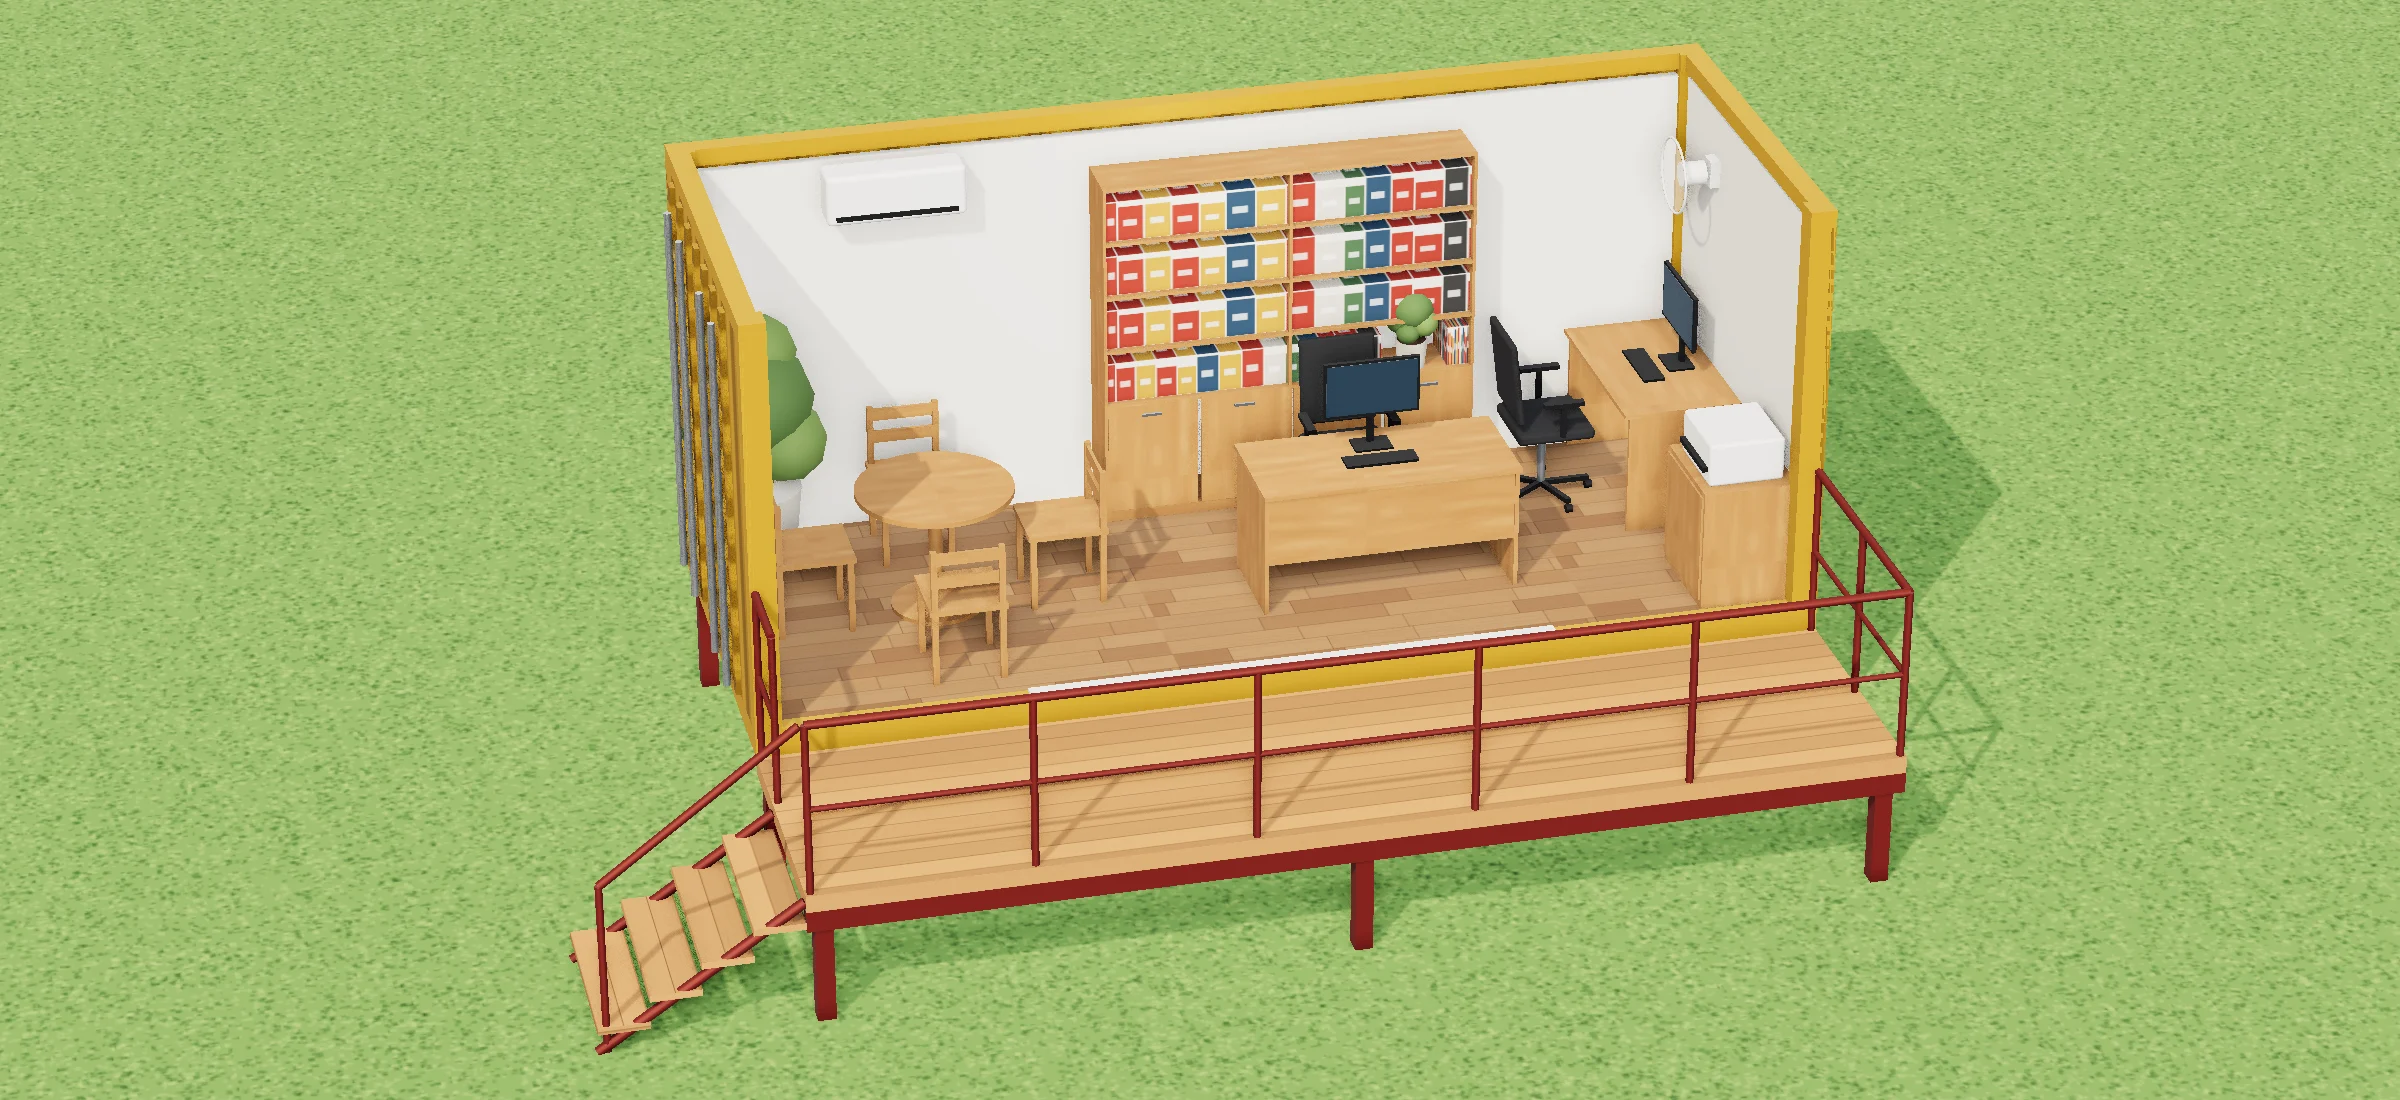
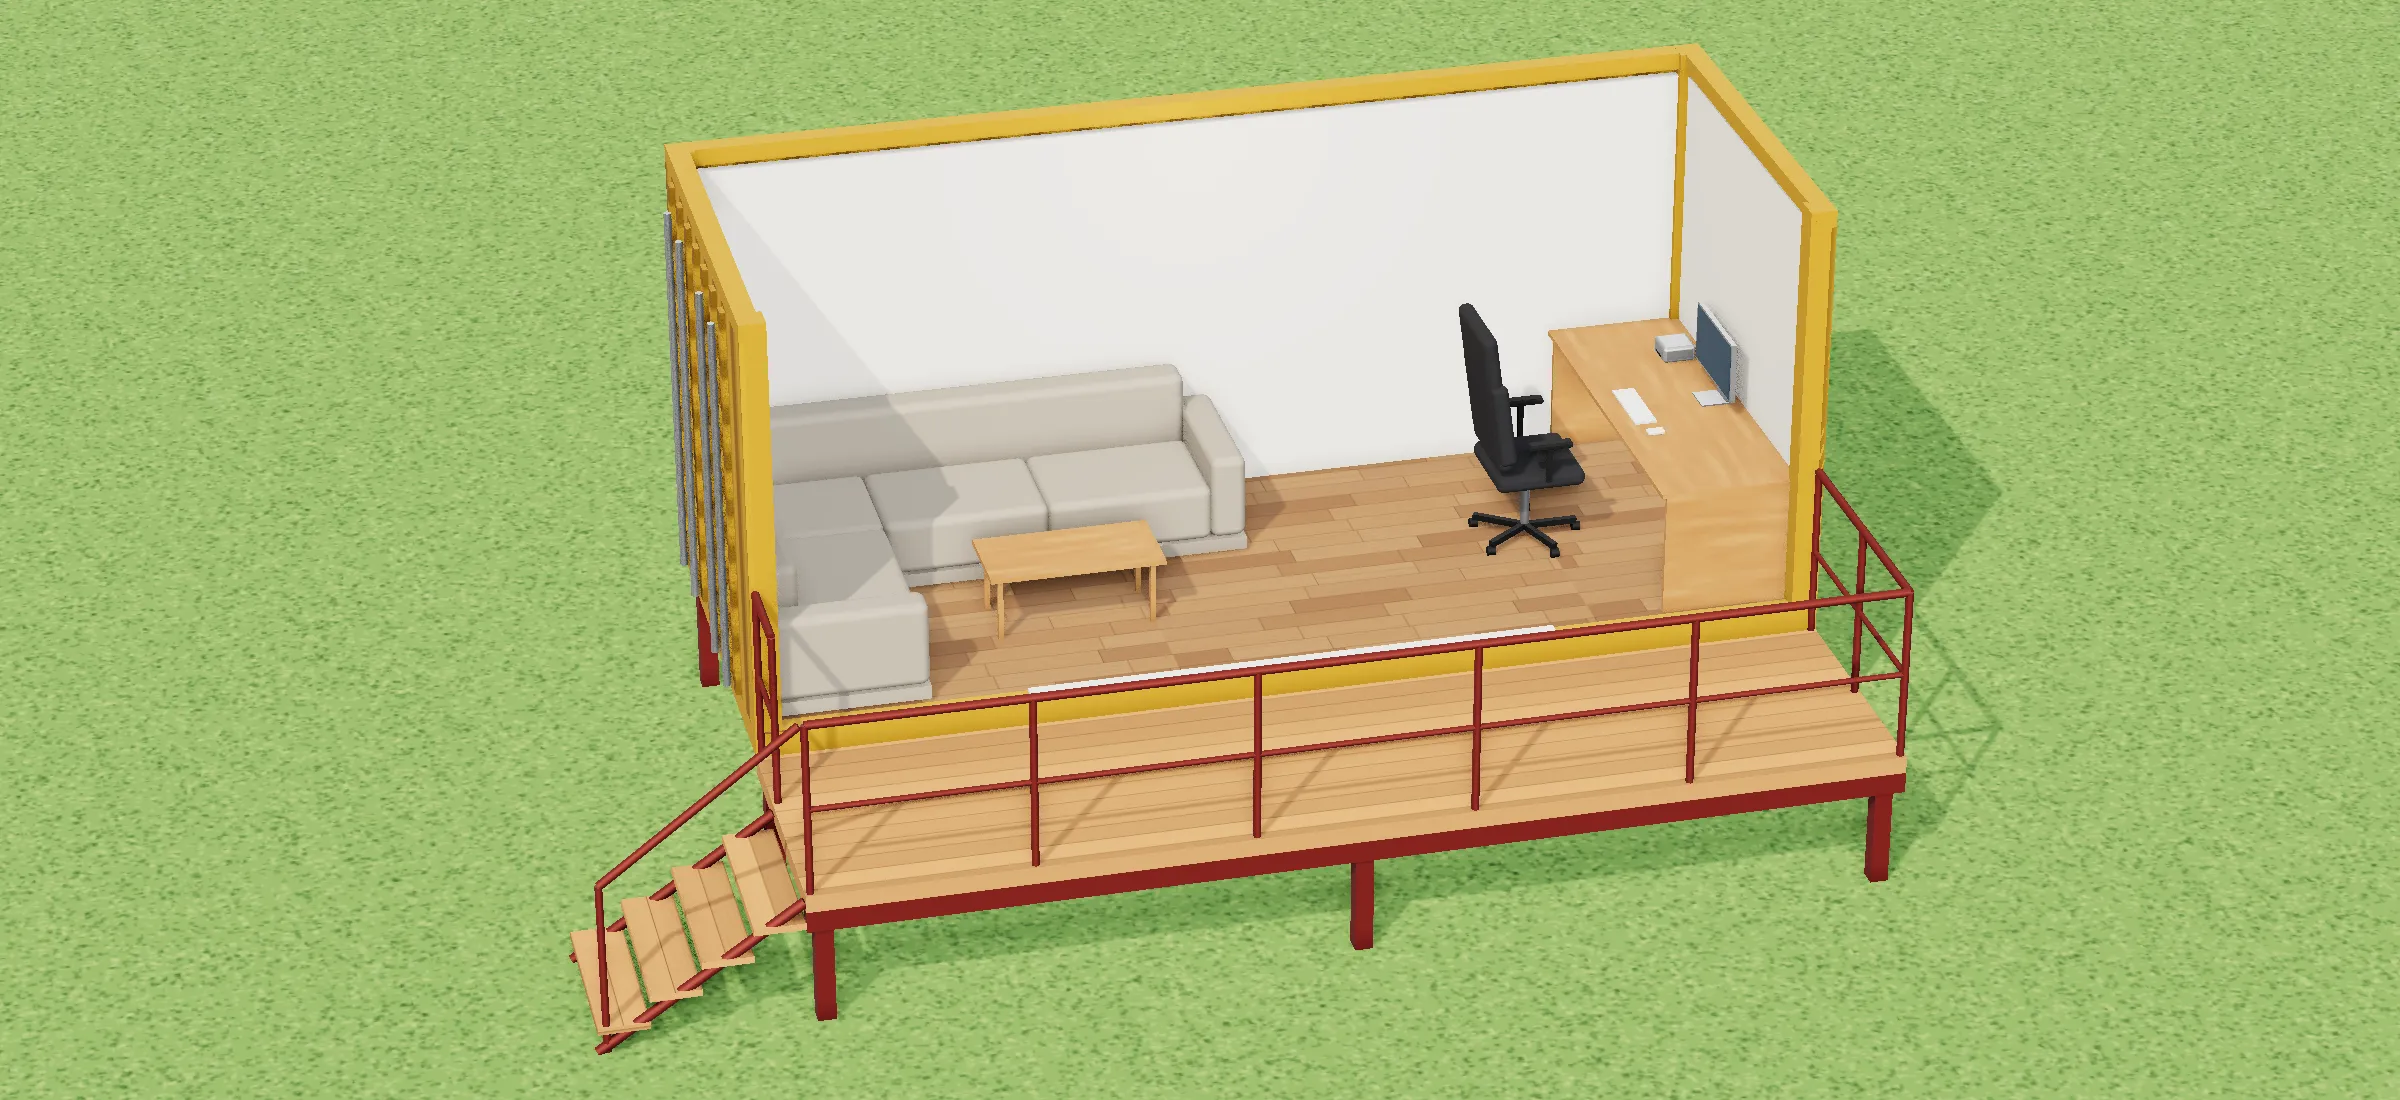
feat(office): 3D rebuilt with the L sofa and the Mac desk
The 3D now draws what the 2D draws: one L sofa across the cargo-door end and
along the back wall with a low table, and the big desk across the far end
wall with a Studio Display, a Mac Studio and a gaming chair. The meeting
table, reception, filing wall, printer, screen, AC, fan and plants are gone
from the scene; the line and real views are re-rendered.

Changed region(s): [[0.3125, 0.1236, 0.75, 0.6491], [0.6875, 0.1236, 0.7188, 0.1855], [0.3438, 0.1855, 0.4062, 0.2164]]

diff --git a/scripts/site/render/office.html b/scripts/site/render/office.html
@@ -16,7 +16,7 @@
     &view=network   the same for the network (office.json `network`): the cabinet, its router, switch, gateway and
                 UPS, the access point and the data outlets -> render/network-line.png + network-tags.json
     &item=<id>  one piece on its own, real mode, 1200 x 900 on a transparent ground: the furniture and equipment
-                (table, woodchair, reception, officechair, monitor, desk, shelves, printer, screen, ac)
+                (sofa, sofatable, bigdesk, display, macstudio, keyboard, gamingchair)
                 -> render/furniture/<id>.webp; a device by its model -> render/electric/<id>.webp or render/network/<id>.webp
 
   Serve the repo root on a spare port, open this page at 2400 x 1100, and once body[data-ready] is set
@@ -221,6 +221,8 @@ function mat(name) {
       leg: () => std({ color: "#9c9fa3", roughness: 0.35, metalness: 0.8 }),
       screen: () => std({ map: T.map, roughness: 0.3, emissive: "#ffffff", emissiveMap: T.map, emissiveIntensity: 0.25 }),
       monitor: () => std({ color: "#1d2a35", roughness: 0.2, emissive: "#4d6a80", emissiveIntensity: 0.25 }),
+      alu: () => std({ color: "#c7c9cc", roughness: 0.32, metalness: 0.75 }), // the Studio Display and the Mac Studio
+      fabric: () => std({ color: "#a59d90", roughness: 0.95 }), // the sofa, a warm stone weave
       files: () => std({ map: T.files, roughness: 0.8 }),
       pot: () => std({ color: "#d9d4c8", roughness: 0.8 }),
       soil: () => std({ color: "#4a3626", roughness: 1 }),
@@ -289,7 +291,7 @@ function pipe(a, b, r, name) {
 }
 
 // ------------------------------------------------------------ the box on its frame, the deck, the stair
-const { container: K, glazing, deck, meeting, reception, desk, shelves, printer, screen, ac, fan, plants } = C
+const { container: K, glazing, deck, workstation: ws, sofa } = C
 const L = K.l, H = K.w / 2, Y0 = K.raised, HC = K.h
 const FL = Y0 + K.floor, CE = Y0 + K.ceiling // inside: the finished floor, the ceiling
 const { x0: ix0, x1: ix1, y0: iz0, y1: iz1 } = K.inner
@@ -348,144 +350,80 @@ if (!LINE && !ITEM) {
 }
 
 // ------------------------------------------------------------ furniture
-// an office chair: five-star base on castors, gas column, black seat and a mesh back; faces +z (rot turns it)
-function officeChair(x, z, rot) {
+// a gaming chair: five-star base on castors, gas column, a deep seat and a tall winged back with a headrest;
+// faces +z (rot turns it)
+function gamingChair(x, z, rot) {
   const g = new THREE.Group(); g.position.set(x, FL, z); g.rotation.y = rot
-  const parts = []
-  const put = (geo, name, pos, r) => { const m = add(geo, name, { pos }); if (r) m.rotation.set(...r); scene.remove(m); g.add(m); parts.push(m) }
+  const put = (geo, name, pos, r) => { const m = add(geo, name, { pos }); if (r) m.rotation.set(...r); scene.remove(m); g.add(m) }
   for (let k = 0; k < 5; k++) {
     const a = (k * 2 * Math.PI) / 5
-    put(new THREE.BoxGeometry(0.03, 0.03, 0.3), "black", [Math.sin(a) * 0.14, 0.07, Math.cos(a) * 0.14], [0, a, 0])
-    put(new THREE.CylinderGeometry(0.025, 0.025, 0.04, 8), "black", [Math.sin(a) * 0.29, 0.025, Math.cos(a) * 0.29], [Math.PI / 2, a, 0])
+    put(new THREE.BoxGeometry(0.035, 0.035, 0.32), "black", [Math.sin(a) * 0.15, 0.07, Math.cos(a) * 0.15], [0, a, 0])
+    put(new THREE.CylinderGeometry(0.028, 0.028, 0.045, 8), "black", [Math.sin(a) * 0.31, 0.028, Math.cos(a) * 0.31], [Math.PI / 2, a, 0])
   }
-  put(new THREE.CylinderGeometry(0.025, 0.025, 0.36, 8), "leg", [0, 0.26, 0])
-  put(new RoundedBoxGeometry(0.48, 0.07, 0.46, 3, 0.025), "mesh", [0, 0.47, 0.02])
-  put(new RoundedBoxGeometry(0.45, 0.52, 0.04, 3, 0.018), "mesh", [0, 0.82, -0.22], [-0.12, 0, 0])
+  put(new THREE.CylinderGeometry(0.028, 0.028, 0.34, 8), "leg", [0, 0.25, 0])
+  put(new RoundedBoxGeometry(0.54, 0.1, 0.52, 3, 0.04), "mesh", [0, 0.47, 0.02])
+  put(new RoundedBoxGeometry(0.54, 0.86, 0.09, 3, 0.04), "mesh", [0, 0.98, -0.25], [-0.14, 0, 0])
+  put(new RoundedBoxGeometry(0.3, 0.12, 0.06, 3, 0.025), "black", [0, 1.28, -0.27], [-0.14, 0, 0]) // the headrest pad
   for (const s of [-1, 1]) {
-    put(new THREE.BoxGeometry(0.03, 0.2, 0.03), "black", [s * 0.25, 0.58, 0.05])
-    put(new THREE.BoxGeometry(0.05, 0.025, 0.24), "black", [s * 0.25, 0.69, 0.05])
+    put(new RoundedBoxGeometry(0.07, 0.5, 0.1, 3, 0.03), "mesh", [s * 0.27, 0.86, -0.22], [-0.14, 0, 0]) // the wings
+    put(new THREE.BoxGeometry(0.03, 0.22, 0.03), "black", [s * 0.29, 0.6, 0.05])
+    put(new RoundedBoxGeometry(0.07, 0.035, 0.26, 3, 0.012), "black", [s * 0.29, 0.72, 0.05])
   }
   scene.add(g)
   g.updateMatrixWorld(true)
 }
-// a timber meeting chair: four legs, a seat, a slatted back; faces +z
-function woodChair(x, z, rot) {
-  const { w, d, seat, back } = meeting.chair
-  const g = new THREE.Group(); g.position.set(x, FL, z); g.rotation.y = rot
-  const put = (geo, name, pos) => { const m = add(geo, name, { pos }); scene.remove(m); g.add(m) }
-  for (const [lx, lz] of [[-1, -1], [1, -1], [-1, 1], [1, 1]]) {
-    const top = lz < 0 ? back : seat
-    put(new THREE.BoxGeometry(0.035, top, 0.035), "oak", [lx * (w / 2 - 0.03), top / 2, lz * (d / 2 - 0.03)])
-  }
-  put(new THREE.BoxGeometry(w, 0.03, d), "oak", [0, seat, 0])
-  for (const y of [seat + 0.18, seat + 0.32]) put(new THREE.BoxGeometry(w - 0.04, 0.07, 0.02), "oak", [0, y, -d / 2 + 0.03])
-  scene.add(g)
-  g.updateMatrixWorld(true)
-}
-// a desk with panel ends and a modesty panel, as in today's office
-function panelDesk(x0, z0, x1, z1, h, modestyAt) {
+// a desk with panel ends and a modesty panel
+function panelDesk(x0, z0, x1, z1, h) {
   blk(x0, z0, x1, z1, FL + h - 0.025, FL + h, "oak")
-  const along = x1 - x0 > z1 - z0
-  if (along) {
-    for (const x of [x0 + 0.01, x1 - 0.035]) blk(x, z0 + 0.03, x + 0.025, z1 - 0.03, FL, FL + h - 0.025, "oak")
-    const z = modestyAt === "front" ? z1 - 0.06 : z0 + 0.03
-    blk(x0 + 0.035, z, x1 - 0.035, z + 0.02, FL + 0.3, FL + h - 0.025, "oak")
-  } else {
-    for (const z of [z0 + 0.01, z1 - 0.035]) blk(x0 + 0.03, z, x1 - 0.03, z + 0.025, FL, FL + h - 0.025, "oak")
-    blk(x1 - 0.05, z0 + 0.035, x1 - 0.03, z1 - 0.035, FL + 0.3, FL + h - 0.025, "oak")
-  }
-}
-function monitor(x, z, top, rot) {
-  const g = new THREE.Group(); g.position.set(x, top, z); g.rotation.y = rot
-  const put = (geo, name, pos) => { const m = add(geo, name, { pos }); scene.remove(m); g.add(m) }
-  put(new THREE.BoxGeometry(0.22, 0.012, 0.16), "black", [0, 0.006, 0])
-  put(new THREE.BoxGeometry(0.04, 0.2, 0.025), "black", [0, 0.11, -0.03])
-  put(new THREE.BoxGeometry(0.56, 0.34, 0.025), "black", [0, 0.36, -0.01])
-  put(new THREE.BoxGeometry(0.53, 0.31, 0.004), "monitor", [0, 0.36, 0.004])
-  put(new THREE.BoxGeometry(0.42, 0.015, 0.13), "black", [0, 0.008, 0.2]) // the keyboard
-  scene.add(g)
-  g.updateMatrixWorld(true)
-}
-function plant(x, z, y0, s) {
-  cyl(x, z, 0.13 * s, y0, 0.28 * s, "pot", 20, 0.16 * s)
-  cyl(x, z, 0.14 * s, y0 + 0.26 * s, 0.015, "soil", 20)
-  const leaves = [[0, 0.62, 0, 0.22], [0.1, 0.48, 0.06, 0.15], [-0.1, 0.5, -0.04, 0.16], [0.03, 0.78, -0.05, 0.14], [-0.06, 0.4, 0.09, 0.12]]
-  leaves.forEach(([dx, dy, dz, r], i) => add(new THREE.IcosahedronGeometry(r * s, 1), i % 2 ? "leaf2" : "leaf", { pos: [x + dx * s, y0 + dy * s, z + dz * s] }))
-  if (s > 1) cyl(x, z, 0.012 * s, y0 + 0.26 * s, 0.3 * s, "leaf", 6)
+  for (const z of [z0 + 0.01, z1 - 0.035]) blk(x0 + 0.03, z, x1 - 0.03, z + 0.025, FL, FL + h - 0.025, "oak")
+  blk(x1 - 0.05, z0 + 0.035, x1 - 0.03, z1 - 0.035, FL + 0.3, FL + h - 0.025, "oak")
 }
 
-// the meeting table for four, its chairs, the screen with the farm's map over it, the AC, the tall plant
+// the L sofa in one piece: a plinth under both legs, the backrest round the inside of the L, an arm at each free
+// end, the corner seat and the seat cushions
 {
-  const { x, y, r, h } = meeting
-  TAG = "table"
-  cyl(x, y, r, FL + h - 0.03, 0.03, "oak", 48)
-  cyl(x, y, 0.04, FL + 0.02, h - 0.05, "oak", 12)
-  cyl(x, y, 0.26, FL, 0.025, "oak", 32)
-  for (const [k, [cx, cz]] of meeting.chairs.entries()) { TAG = k ? `woodchair#${k}` : "woodchair"; woodChair(cx, cz, Math.atan2(x - cx, y - cz)) }
-  TAG = "screen"
-  const sy = screen.y, sb = FL + screen.bottom
-  blk(ix0, sy - screen.w / 2, ix0 + 0.04, sy + screen.w / 2, sb, sb + screen.h, "black")
-  blk(ix0 + 0.04, sy - screen.w / 2 + 0.02, ix0 + 0.045, sy + screen.w / 2 - 0.02, sb + 0.02, sb + screen.h - 0.02, "screen", { noShadow: true })
-  TAG = "ac"
-  soft(ac.x0, iz0, ac.x1, iz0 + ac.d, FL + ac.y0, FL + ac.y1, 0.03, "white")
-  blk(ac.x0 + 0.05, iz0 + ac.d, ac.x1 - 0.05, iz0 + ac.d + 0.005, FL + ac.y0 + 0.03, FL + ac.y0 + 0.06, "black")
-  TAG = ""
-  plant(plants.floor[0], plants.floor[1], FL, 1.6)
+  TAG = "sofa"
+  const { d, arm, rest, x1, seats } = sofa, z0 = iz0, z1 = iz1
+  const base = FL + 0.1, seat = FL + 0.43, top = FL + 0.82, armTop = FL + 0.6
+  blk(ix0, z0, x1, z0 + d, FL + 0.02, base, "fabric")
+  blk(ix0, z0 + d, ix0 + d, z1, FL + 0.02, base, "fabric")
+  for (const [x, z] of [[ix0 + 0.06, z0 + 0.06], [x1 - 0.06, z0 + 0.06], [x1 - 0.06, z0 + d - 0.06], [ix0 + d - 0.06, z1 - 0.06], [ix0 + 0.06, z1 - 0.06], [ix0 + d - 0.06, z0 + d + 0.06]])
+    cyl(x, z, 0.02, FL, 0.02, "black", 8)
+  soft(ix0, z0, x1 - arm, z0 + rest, base, top, 0.05, "fabric")
+  soft(ix0, z0 + rest, ix0 + rest, z1 - arm, base, top, 0.05, "fabric")
+  soft(x1 - arm, z0, x1, z0 + d, base, armTop, 0.05, "fabric")
+  soft(ix0, z1 - arm, ix0 + d, z1, base, armTop, 0.05, "fabric")
+  soft(ix0 + rest, z0 + rest, ix0 + d, z0 + d, base, seat, 0.05, "fabric")
+  const wl = (x1 - arm - ix0 - d) / seats.wall, el = (z1 - arm - z0 - d) / seats.end
+  for (let k = 0; k < seats.wall; k++) soft(ix0 + d + k * wl, z0 + rest, ix0 + d + (k + 1) * wl, z0 + d, base, seat, 0.05, "fabric")
+  for (let k = 0; k < seats.end; k++) soft(ix0 + rest, z0 + d + k * el, ix0 + d, z0 + d + (k + 1) * el, base, seat, 0.05, "fabric")
+  // the low table in front, Medium Oak on four legs
+  TAG = "sofatable"
+  const t = sofa.table
+  blk(t.x0, t.y0, t.x1, t.y1, FL + 0.38, FL + 0.41, "oak")
+  for (const x of [t.x0 + 0.05, t.x1 - 0.08]) for (const z of [t.y0 + 0.05, t.y1 - 0.08]) blk(x, z, x + 0.03, z + 0.03, FL, FL + 0.38, "oak")
 }
-// the filing wall: closed cupboards below, open shelves with box files above, a small plant
+// the big desk across the far end wall: the Studio Display on its stand, the Mac Studio beside it, the keyboard
+// and mouse, the gaming chair facing the wall
 {
-  TAG = "shelves"
-  const { x0, x1, d, h, base, rows } = shelves, z0 = iz0, z1 = iz0 + d
-  blk(x0, z0, x1, z1, FL, FL + 0.06, "oak")
-  for (const x of [x0, x0 + (x1 - x0) / 2 - 0.009, x1 - 0.018]) blk(x, z0, x + 0.018, z1, FL, FL + h, "oak")
-  const n = 4, dw = (x1 - x0) / n
-  for (let i = 0; i < n; i++) blk(x0 + i * dw + 0.02, z1 - 0.018, x0 + (i + 1) * dw - 0.003, z1, FL + 0.065, FL + base - 0.005, "oak")
-  for (let i = 0; i < n; i++) blk(x0 + (i + 0.5) * dw - 0.06, z1, x0 + (i + 0.5) * dw + 0.06, z1 + 0.015, FL + base - 0.09, FL + base - 0.075, "leg")
-  const pitch = (h - base) / rows
-  for (let k = 0; k <= rows; k++) blk(x0, z0, x1, z1, FL + base + k * pitch - (k === 0 ? 0.02 : 0.018), FL + base + k * pitch + (k === 0 ? 0 : 0), "oak")
-  for (let k = 0; k < rows; k++) {
-    const y = FL + base + k * pitch
-    // files fill each shelf, with a gap where the plant stands
-    const gap = k === 0 ? [plants.shelf[0] - 0.2, plants.shelf[0] + 0.2] : null
-    const spans = gap ? [[x0 + 0.02, gap[0]], [gap[1], x1 - 0.02]] : [[x0 + 0.02, x1 - 0.02]]
-    for (const [a, b] of spans) blk(a, z0 + 0.02, b, z0 + d - 0.04, y, y + pitch * 0.72, "files")
-  }
-  TAG = ""
-  plant(plants.shelf[0], plants.shelf[1] + 0.08, FL + base, 0.6)
-}
-// the reception desk facing the glazing, its chair behind, a monitor
-{
-  const r = reception
-  TAG = "reception"
-  panelDesk(r.x0, r.y0, r.x1, r.y1, r.h, "front")
-  TAG = "officechair"
-  officeChair(r.chair[0], r.chair[1], 0)
-  TAG = "monitor"
-  monitor((r.x0 + r.x1) / 2, r.y0 + 0.2, FL + r.h, 0)
-}
-// the second desk on the far end wall, chair facing the wall, monitor; the printer cabinet; the wall fan
-{
-  TAG = "desk"
-  panelDesk(desk.x0, desk.y0, desk.x1, desk.y1, desk.h)
-  TAG = "officechair#2"
-  officeChair(desk.chair[0], desk.chair[1], Math.PI / 2)
-  TAG = "monitor#2"
-  monitor(desk.x1 - 0.2, (desk.y0 + desk.y1) / 2, FL + desk.h, -Math.PI / 2)
-  TAG = "printer"
-  const p = printer
-  blk(p.x0, p.y0, p.x1, p.y1, FL, FL + p.h, "oak")
-  blk(p.x0 - 0.012, p.y0 + 0.02, p.x0, p.y1 - 0.02, FL + 0.05, FL + p.h - 0.03, "oak")
-  soft(p.x0 + 0.05, p.y0 + 0.08, p.x1 - 0.06, p.y1 - 0.08, FL + p.h, FL + p.h + 0.26, 0.02, "white")
-  blk(p.x0 + 0.02, p.y0 + 0.12, p.x0 + 0.05, p.y1 - 0.12, FL + p.h + 0.08, FL + p.h + 0.11, "black")
-  TAG = "wallfan"
-  const fy = FL + fan.at, fz = fan.y
-  blk(ix1 - 0.06, fz - 0.06, ix1, fz + 0.06, fy - 0.08, fy + 0.08, "white")
-  cyl(ix1 - 0.15, fz, 0.07, fy - 0.07, 0.14, "white", 16).rotation.z = Math.PI / 2
-  const cage = add(new THREE.TorusGeometry(fan.r, 0.008, 6, 32), "cage", { pos: [ix1 - 0.26, fy, fz] })
-  cage.rotation.y = Math.PI / 2
-  const disc = add(new THREE.CircleGeometry(fan.r - 0.01, 24), "white", { pos: [ix1 - 0.265, fy, fz], noEdges: true })
-  disc.rotation.y = -Math.PI / 2
-  if (!LINE) { disc.material = disc.material.clone(); disc.material.transparent = true; disc.material.opacity = 0.35 }
+  const h = 0.75, top = FL + h, dx = ix1 - ws.d
+  TAG = "bigdesk"
+  panelDesk(dx, iz0, ix1, iz1, h)
+  TAG = "display"
+  const { w, t, foot } = ws.display
+  blk(ix1 - 0.07 - foot, -0.09, ix1 - 0.07, 0.09, top, top + 0.008, "alu")
+  blk(ix1 - 0.09, -0.08, ix1 - 0.075, 0.08, top + 0.008, top + 0.3, "alu")
+  blk(ix1 - 0.12 - t, -w / 2, ix1 - 0.12, w / 2, top + 0.12, top + 0.477, "alu")
+  blk(ix1 - 0.12 - t - 0.002, -w / 2 + 0.012, ix1 - 0.12 - t, w / 2 - 0.012, top + 0.132, top + 0.465, "monitor", { noShadow: true })
+  TAG = "macstudio"
+  const mc = ix1 - 0.08 - ws.mac.w / 2, mz = ws.mac.y, mw = ws.mac.w / 2
+  soft(mc - mw, mz - mw, mc + mw, mz + mw, top, top + 0.095, 0.02, "alu")
+  blk(mc - mw - 0.002, mz - 0.05, mc - mw, mz + 0.05, top + 0.02, top + 0.03, "black", { noEdges: true })
+  TAG = "keyboard"
+  blk(dx + 0.12, -0.22, dx + 0.25, 0.22, top, top + 0.012, "white")
+  soft(dx + 0.15, 0.32, dx + 0.25, 0.38, top, top + 0.025, 0.01, "white")
+  TAG = "gamingchair"
+  gamingChair(ws.chair[0], ws.chair[1], Math.PI / 2)
 }
 
 TAG = ""
@@ -500,7 +438,7 @@ if (ITEM) { S.build(C.electric.points, existing); S.build(C.network.points) }
 
 // ------------------------------------------------------------ camera: the front view, a little from the stair end
 scene.updateMatrixWorld(true)
-const ITEM_VIEW = { shelves: [0.6, 0.55, 1], desk: [-1, 0.6, 0.6], "officechair": [0.6, 0.6, -1], printer: [-1, 0.6, 0.75], screen: [1, 0.4, 0.6], ac: [0.5, 0.2, 1], wallfan: [-1, 0.3, 0.7] }
+const ITEM_VIEW = { bigdesk: [-1, 0.6, 0.6], display: [-1, 0.4, 0.5], macstudio: [-1, 0.6, 0.6], gamingchair: [0.6, 0.6, -1], sofa: [0.6, 0.5, 1] }
 const camera = new THREE.PerspectiveCamera(22, FW / FH, 0.5, 200)
 let itemBox = null
 if (ITEM) {

diff --git a/src/app/en/office/page.tsx b/src/app/en/office/page.tsx
@@ -84,8 +84,8 @@ export default function OfficePage() {
       {/* 3D, in the 2D section's pattern: a line drawing of the office seen from the front with its front wall
           and roof off, then the same view rendered. Both from scripts/site/render/office.html. */}
       <ModelSection line={`${D}/render/office-line.png`} real={`${D}/render/office-real.webp`} width={2400} height={1100}
-        lineAlt="Line drawing of the office from the front with the front wall off: the container raised on its frame, the deck with railings and the stair, a round table with four chairs, a split AC, the filing wall, the reception desk with a monitor and chair, and a second desk, printer and wall fan at the far end."
-        realAlt="The same view rendered: saffron corrugated steel, off-white walls and an oak floor, Medium Oak desks, shelves and meeting chairs, black mesh office chairs, coloured box files, a tall plant, on red steel posts with a eucalyptus deck and red railings over the lawn." />
+        lineAlt="Line drawing of the office from the front with the front wall off: the container raised on its frame, the deck with railings and the stair, an L sofa across the cargo-door end and along the back wall with a low table, and a big desk across the far end wall with a Studio Display, a Mac Studio and a gaming chair."
+        realAlt="The same view rendered: saffron corrugated steel, off-white walls and an oak floor, a stone-grey L sofa and a Medium Oak table, a Medium Oak desk with a silver Studio Display and Mac Studio, a black gaming chair, on red steel posts with a eucalyptus deck and red railings over the lawn." />
 
       {/* The rail, in the studio's pattern: each piece on its own (office.html?item=<id>), the card in focus showing its
           size, source and cost below. */}

diff --git a/src/lib/design-blur.generated.ts b/src/lib/design-blur.generated.ts
@@ -23,7 +23,7 @@ export const DESIGN_BLUR: Record<string, string> = {
[8 lines of base64/hex data omitted]
